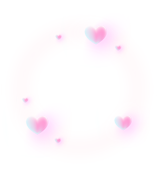
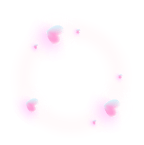
chore: 修改特效

diff --git a/packages/webgal/src/Core/initializeScript.ts b/packages/webgal/src/Core/initializeScript.ts
@@ -115,45 +115,39 @@ export function initClickAnimation() {
     let target = event.target as HTMLElement; // 将 event.target 断言为 HTMLElement
 
     // 如果点击的不是按钮本身，可能是子元素，向上查找最接近的父级按钮
-    if (!target.classList.contains('btn-clicked')) {
-      target = target.closest('.btn-clicked') as HTMLElement;
-    }
+    const container = document.body;
 
-    if (target?.classList.contains('btn-clicked')) {
-      const container = document.body;
+    // 创建点击动画的图片元素
+    const clickEffect = document.createElement('div');
+    clickEffect.classList.add('click-frame');
 
-      // 创建点击动画的图片元素
-      const clickEffect = document.createElement('div');
-      clickEffect.classList.add('click-frame');
+    // 根据鼠标点击位置放置图片
+    const { clientX: x, clientY: y } = event;
+    // 打印clientX和clientY, pageX和pageY, x和y
+    clickEffect.style.left = `${x - 36}px`; // 居中
+    clickEffect.style.top = `${y - 36.25}px`;
 
-      // 根据鼠标点击位置放置图片
-      const { clientX: x, clientY: y } = event;
-      // 打印clientX和clientY, pageX和pageY, x和y
-      clickEffect.style.left = `${x - 79}px`; // 居中
-      clickEffect.style.top = `${y - 84.5}px`;
+    container?.appendChild(clickEffect);
 
-      container?.appendChild(clickEffect);
+    // 动态更新图片帧 (click0 - click9)
+    let frame = 0;
+    const updateFrame = () => {
+      if (frame > 9) {
+        // 当所有帧都显示完毕后，延迟移除元素
+        setTimeout(() => {
+          container?.removeChild(clickEffect);
+        }, 0);
+      } else {
+        // 更新当前帧的背景图片
+        clickEffect.style.backgroundImage = `url('./assets/click${frame}.png')`;
+        frame++;
 
-      // 动态更新图片帧 (click0 - click9)
-      let frame = 0;
-      const updateFrame = () => {
-        if (frame > 9) {
-          // 当所有帧都显示完毕后，延迟移除元素
-          setTimeout(() => {
-            container?.removeChild(clickEffect);
-          }, 0);
-        } else {
-          // 更新当前帧的背景图片
-          clickEffect.style.backgroundImage = `url('./assets/click${frame}.png')`;
-          frame++;
+        // 使用递归的 setTimeout 来模拟下一帧的执行
+        setTimeout(updateFrame, 35); // 每帧间隔 32ms
+      }
+    };
 
-          // 使用递归的 setTimeout 来模拟下一帧的执行
-          setTimeout(updateFrame, 48); // 每帧间隔 48ms
-        }
-      };
-
-      // 启动动画帧更新
-      setTimeout(updateFrame, 48); // 初始延时启动
-    }
+    // 启动动画帧更新
+    setTimeout(updateFrame, 35); // 初始延时启动
   });
 }

diff --git a/packages/webgal/src/index.scss b/packages/webgal/src/index.scss
@@ -184,9 +184,8 @@ code {
 
 .click-frame {
   position: fixed;
-  width: 158px;
-  height: 169px;
-  animation: fadeOut 0.5s forwards;
+  width: 72px;
+  height: 72.5px;
   z-index: 99999;
   background-size: cover;
   pointer-events: none;
@@ -195,18 +194,6 @@ code {
 .test-frame {
   animation: 1s forwards test2F;
   opacity: 0;
-}
-
-@keyframes fadeOut {
-  0% {
-    opacity: 1;
-  }
-  90% {
-    opacity: 1;
-  }
-  100% {
-    opacity: 0;
-  }
 }
 
 @keyframes test2F {
